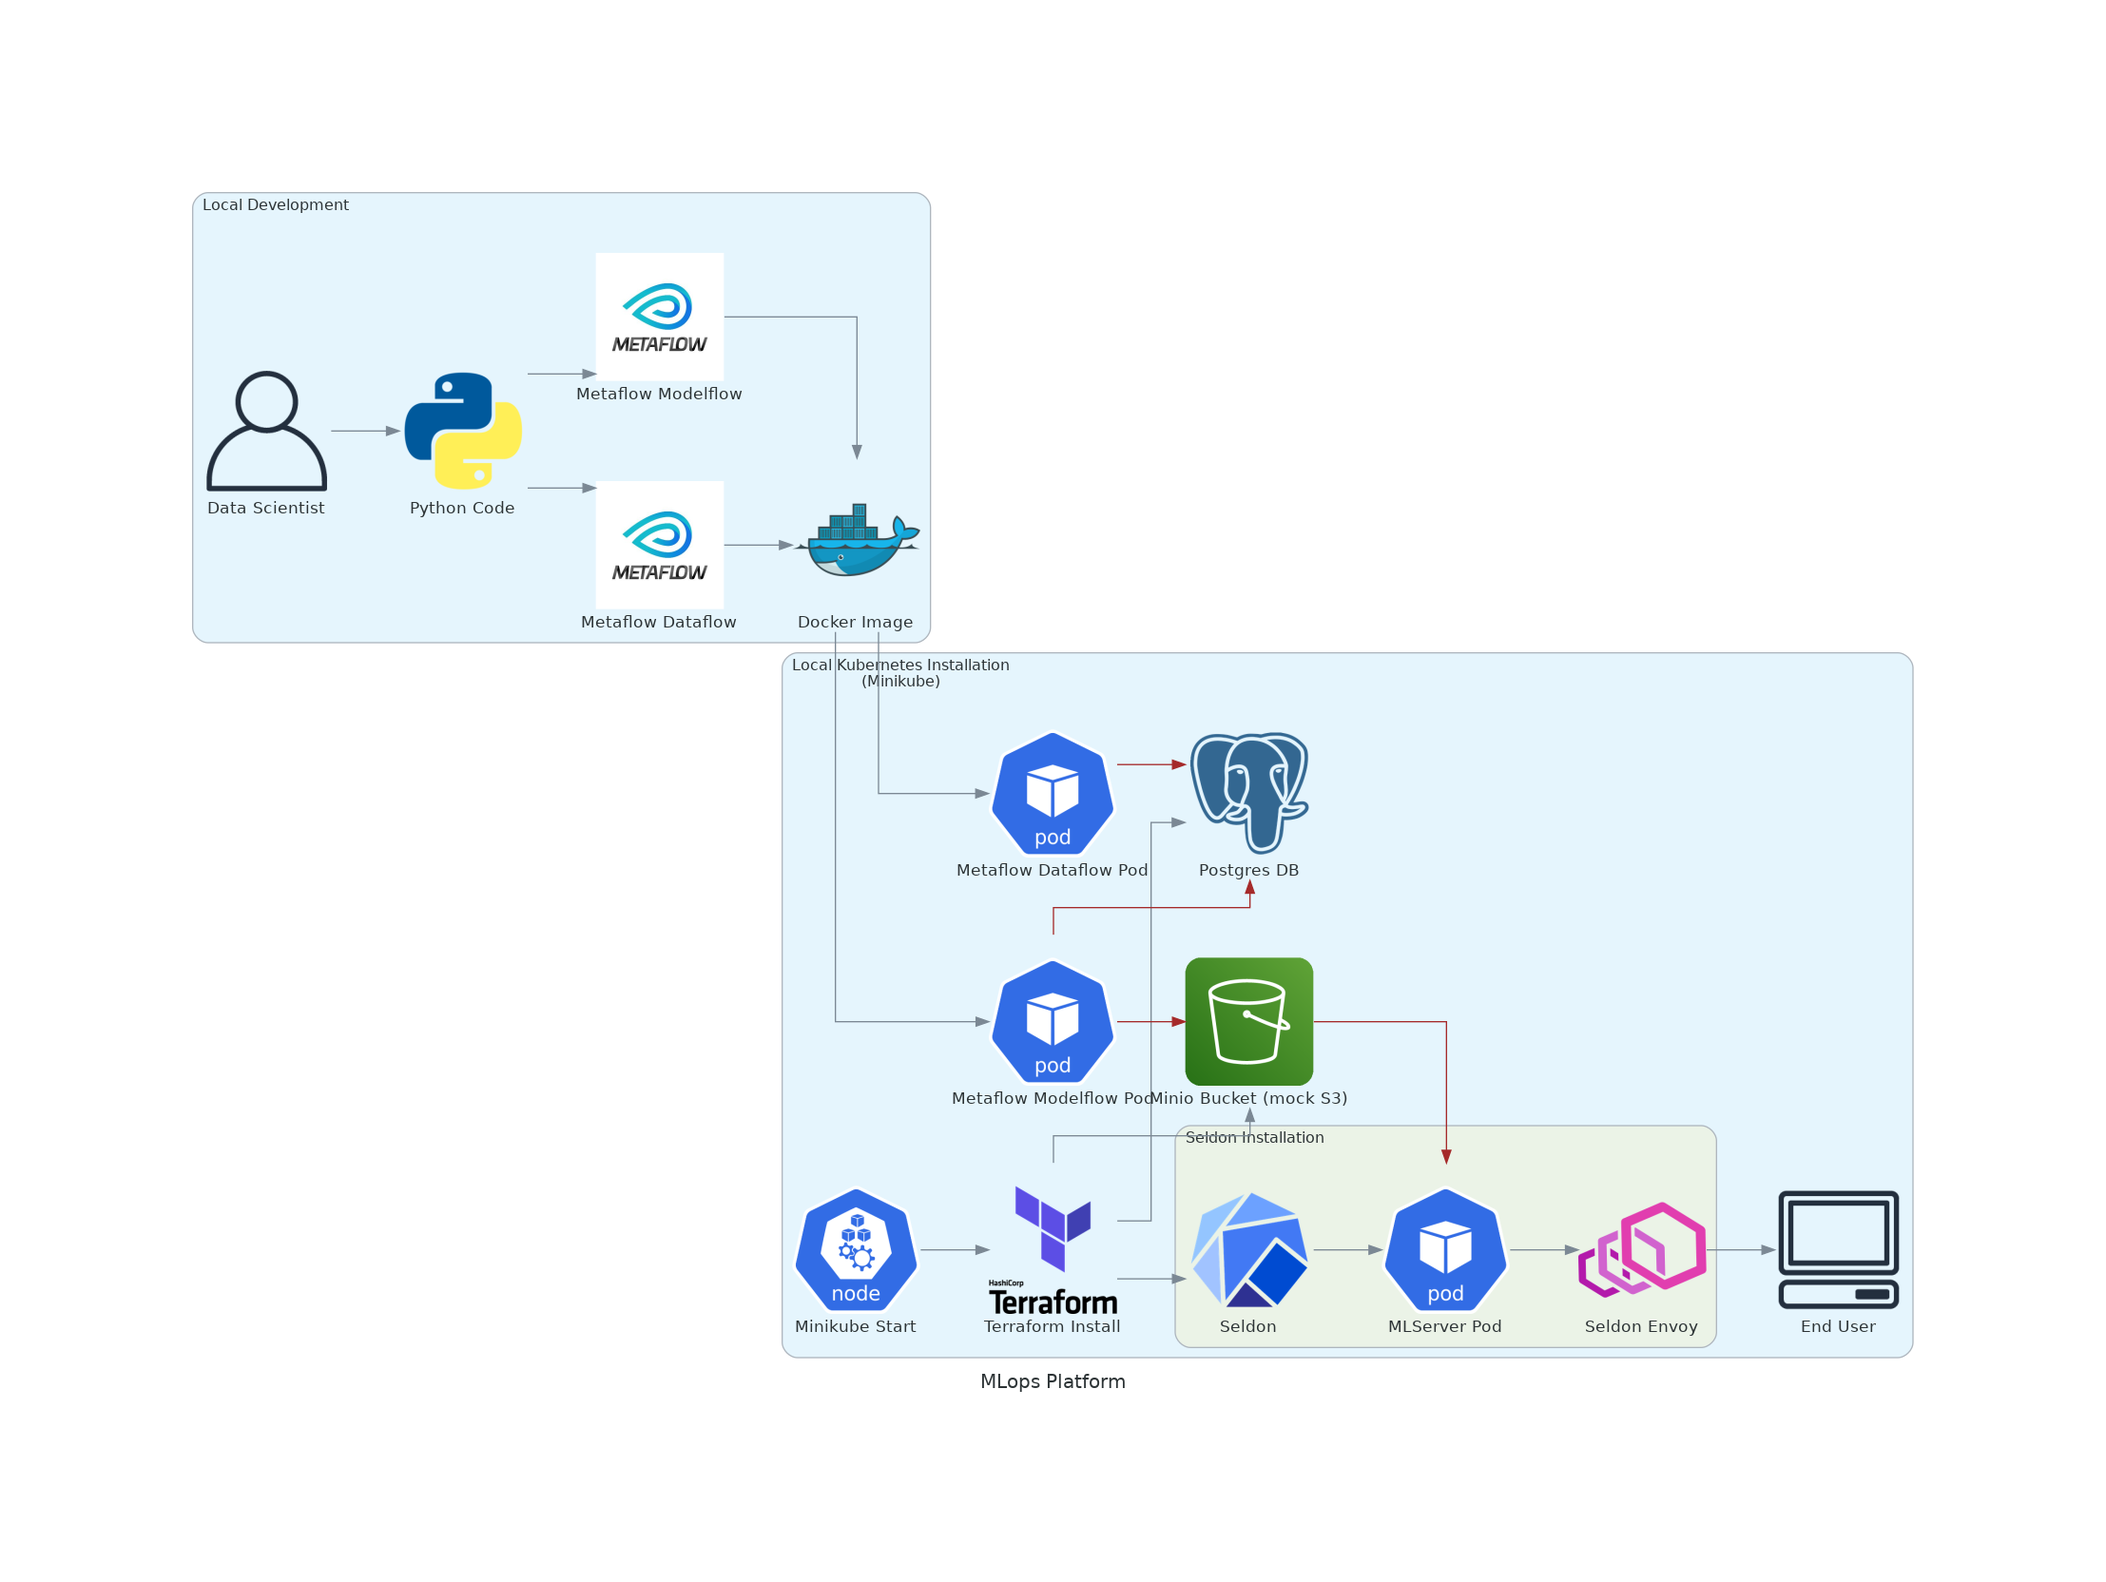
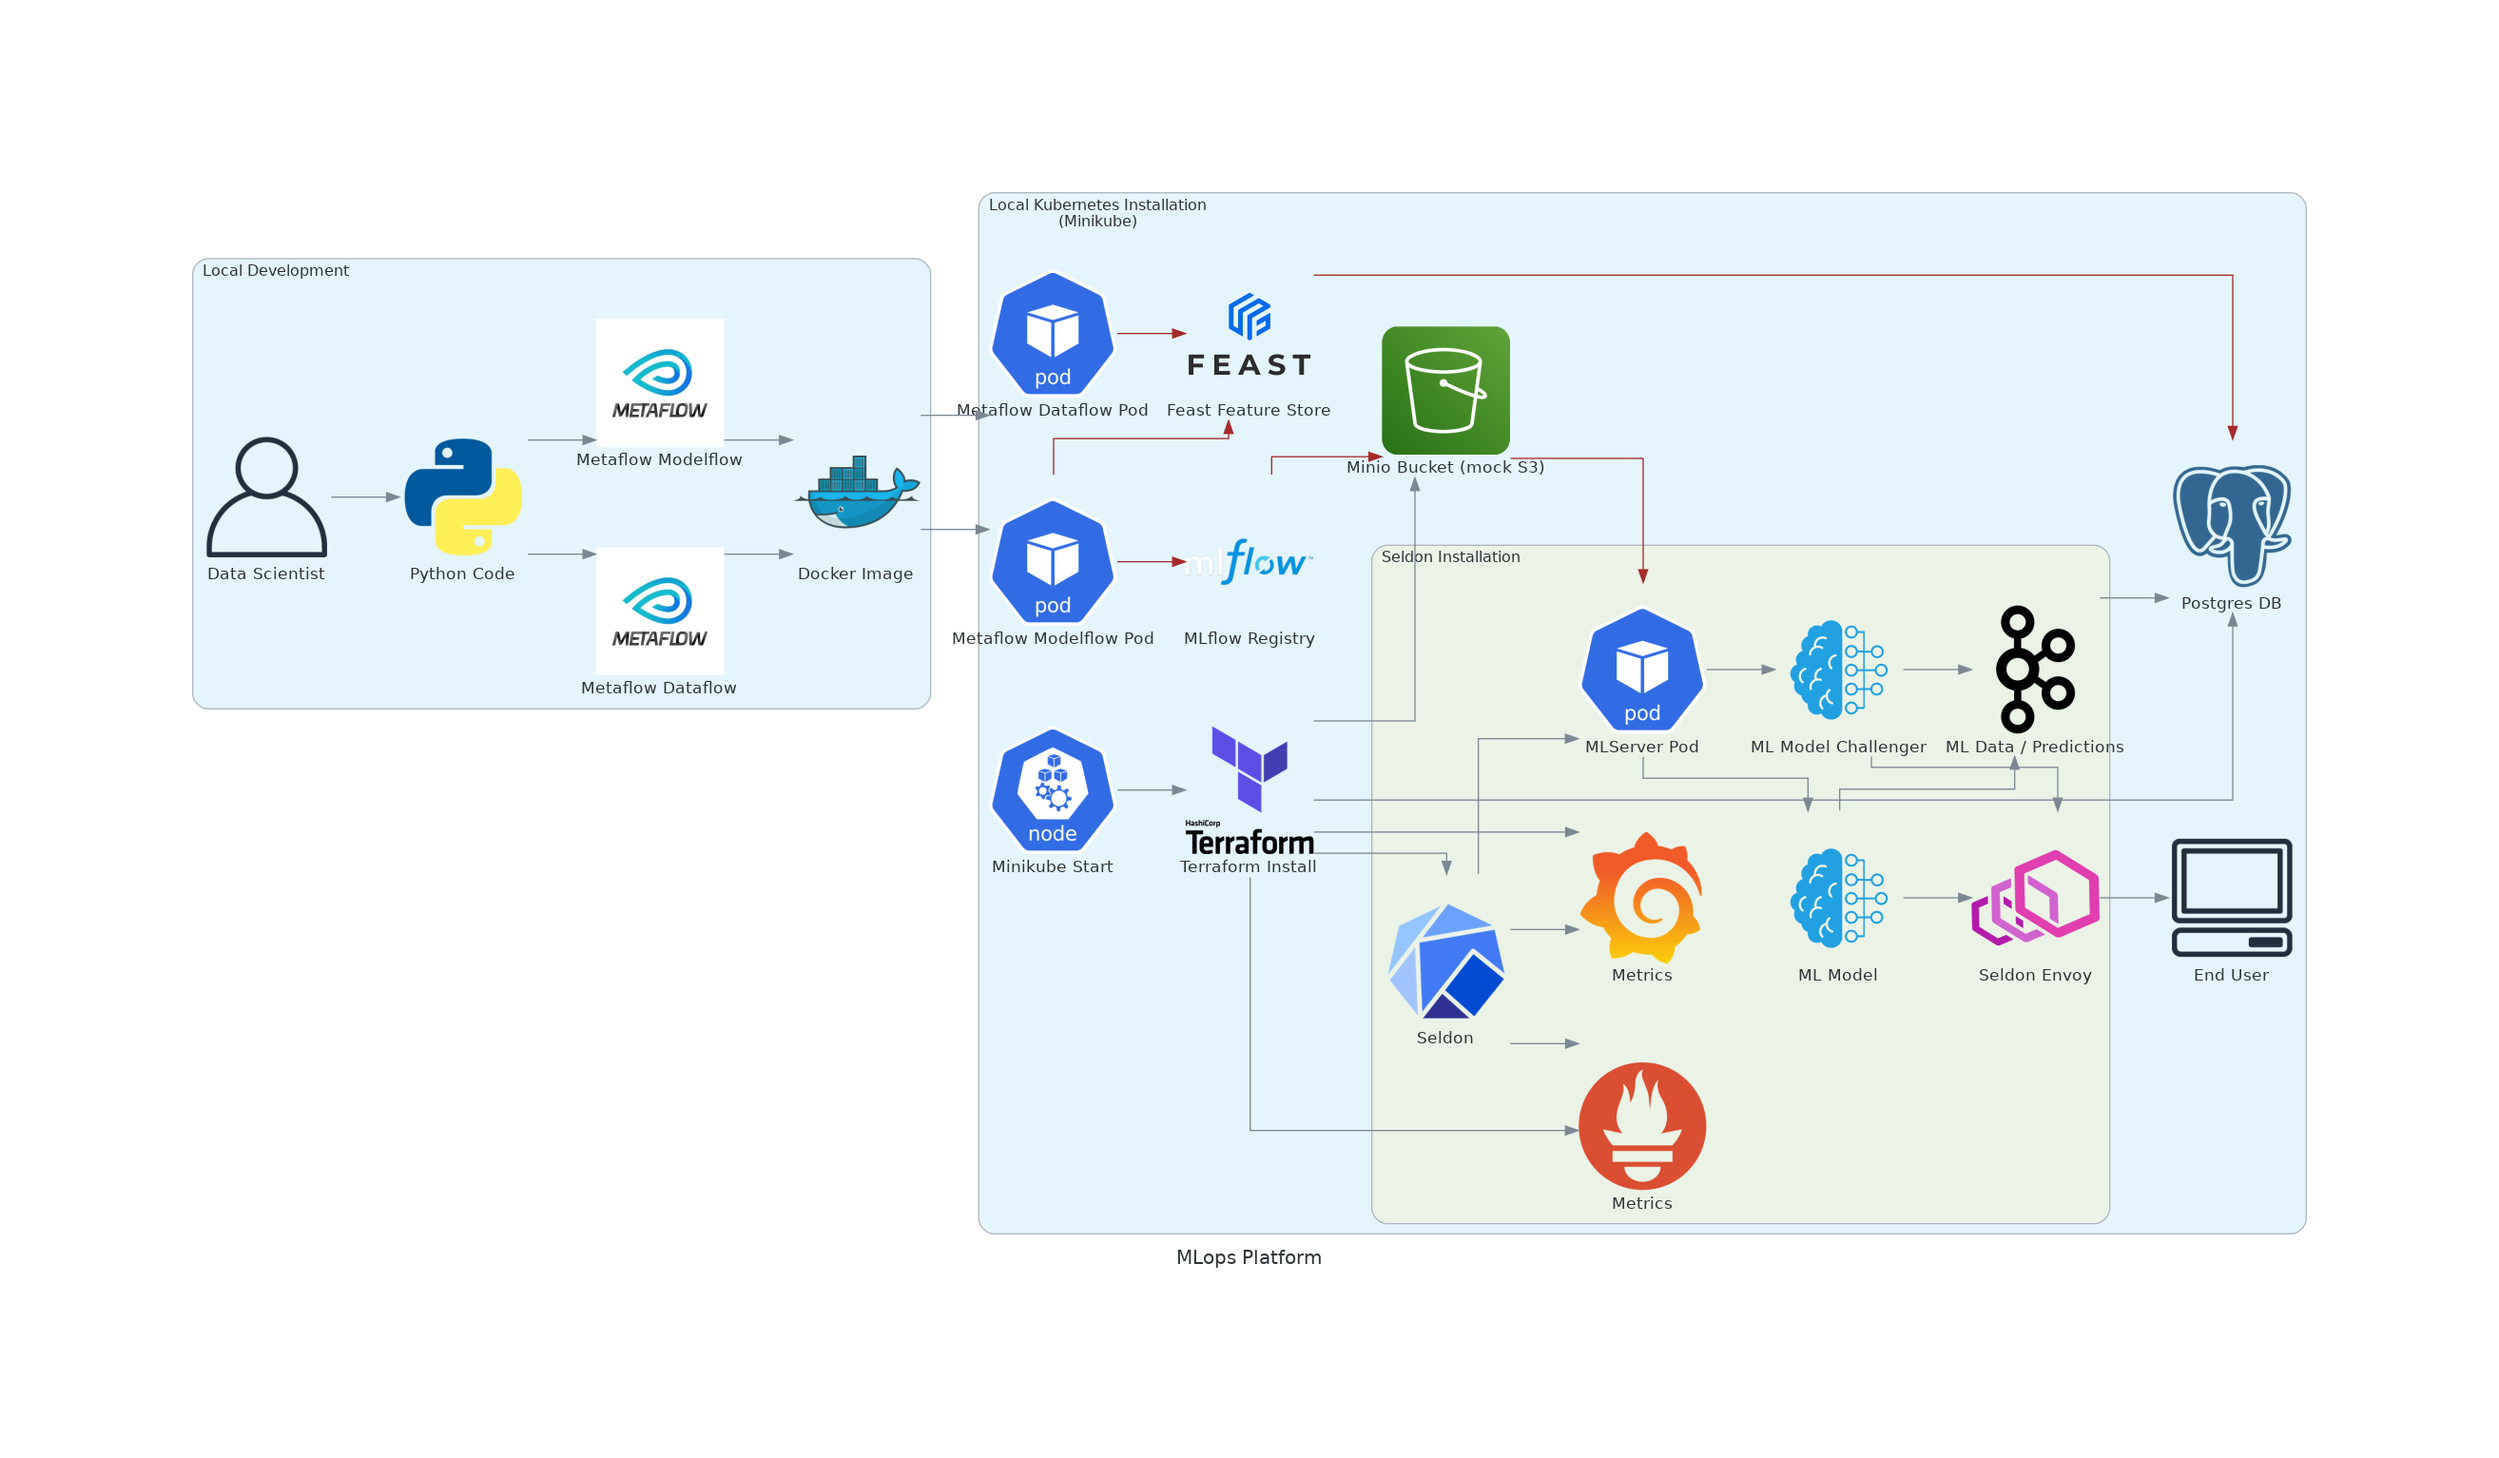
update docs

Changed region(s): [[0.0623, 0.1226, 0.9345, 0.8891], [0.7165, 0.5825, 0.7476, 0.6745]]

diff --git a/app/readme_diagrams.py b/app/readme_diagrams.py
@@ -7,7 +7,10 @@ from diagrams.onprem.client import Client, User
 from diagrams.onprem.container import Docker
 from diagrams.onprem.database import Postgresql
 from diagrams.onprem.iac import Terraform
+from diagrams.onprem.mlops import Mlflow
+from diagrams.onprem.monitoring import Grafana, Prometheus
 from diagrams.onprem.network import Envoy
+from diagrams.onprem.queue import Kafka
 from diagrams.onprem.workflow import Kubeflow
 from diagrams.programming.language import Python
 
@@ -23,11 +26,13 @@ with Diagram("MLops Platform"):
 
     with Cluster("Local Kubernetes Installation\n(Minikube)"):
         modelflow_pod = Pod("Metaflow Modelflow Pod")
+        feast = Custom("Feast Feature Store", "./icons/feast.png")
         dataflow_pod = Pod("Metaflow Dataflow Pod")
         minikube = Node("Minikube Start")
         terraform = Terraform("Terraform Install")
         postgres = Postgresql("Postgres DB")
         minio_bucket = S3("Minio Bucket (mock S3)")
+        mlflow = Mlflow("MLflow Registry")
 
         minikube >> terraform >> [postgres, minio_bucket]
 
@@ -36,12 +41,29 @@ with Diagram("MLops Platform"):
         with Cluster("Seldon Installation"):
             seldon = Kubeflow("Seldon")
             model_deployment = Pod("MLServer Pod")
-            terraform >> seldon
+            ml_model = Custom("ML Model", "./icons/model.png")
+            ml_model_challenger = Custom("ML Model Challenger", "./icons/model.png")
+            kafka = Kafka("ML Data / Predictions")
+            prom = Prometheus("Metrics")
+            grafana = Grafana("Metrics")
+            envoy = Envoy("Seldon Envoy")
 
-            seldon >> model_deployment >> Envoy("Seldon Envoy") >> end_user
+            terraform >> seldon
+            terraform >> [prom, grafana]
+            seldon >> [prom, grafana]
+            seldon >> model_deployment >> [ml_model, ml_model_challenger] >> kafka
+            [ml_model, ml_model_challenger] >> envoy >> end_user
+            kafka >> postgres
 
         minio_bucket >> Edge(color="brown") >> model_deployment
 
-        dataflow_pod >> Edge(color="brown") >> postgres
-        modelflow_pod >> Edge(color="brown") >> [minio_bucket, postgres]
+        dataflow_pod >> Edge(color="brown") >> feast >> Edge(color="brown") >> postgres
+        (
+            modelflow_pod
+            >> Edge(color="brown")
+            >> mlflow
+            >> Edge(color="brown")
+            >> minio_bucket
+        )
+        modelflow_pod >> Edge(color="brown") >> feast
         docker_container >> [modelflow_pod, dataflow_pod]

diff --git a/README.md b/README.md
@@ -23,9 +23,14 @@ This repo is an experiment into creating a fully self-contained, local kubernete
 2. Deploying postgres DB as a datastore via terraform
 3. Metaflow used job orchestration
 4. Feast for feature store implementation
-5. Seldon for model serving
+5. Mlflow for model registry
+6. Seldon for model serving
+
+See a high level overview here:
 
 ![mlops_platform.png](mlops_platform.png)
+
+Note that Kafka, Prometheus, Grafana are not shown (yet) in this example.
 
 ## 🔨 Versions 🔨
 
